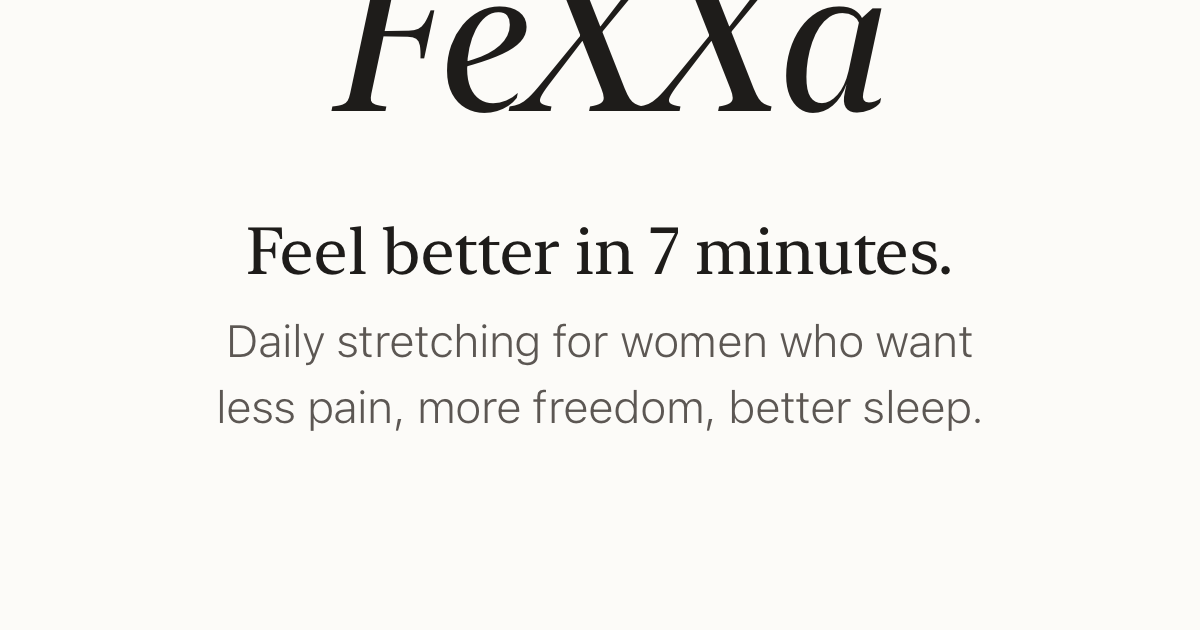
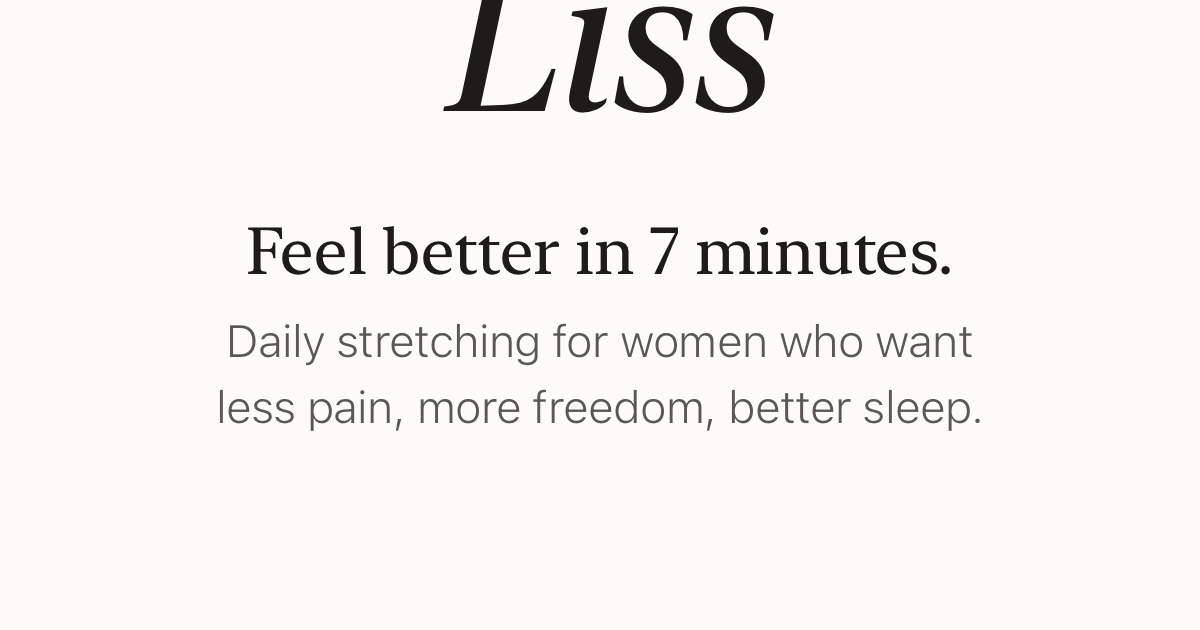
fixed:name

Changed region(s): [[0.2775, 0.0, 0.74, 0.181]]

diff --git a/index.html b/index.html
@@ -133,7 +133,7 @@
 
             <div class="hero-visual" aria-hidden="true">
                 <div class="phone-frame phone-hero">
-                    <img src="img/screen-splash.png" alt="FeXXa splash screen. Feel better in 7 minutes" loading="eager" width="300" height="650">
+                    <img src="img/screen-splash.png" alt="Liss" loading="eager" width="300" height="650">
                 </div>
                 <div class="phone-frame phone-offset">
                     <img src="img/screen-today.png" alt="Home screen. How does your body feel today?" loading="eager" width="300" height="650">
